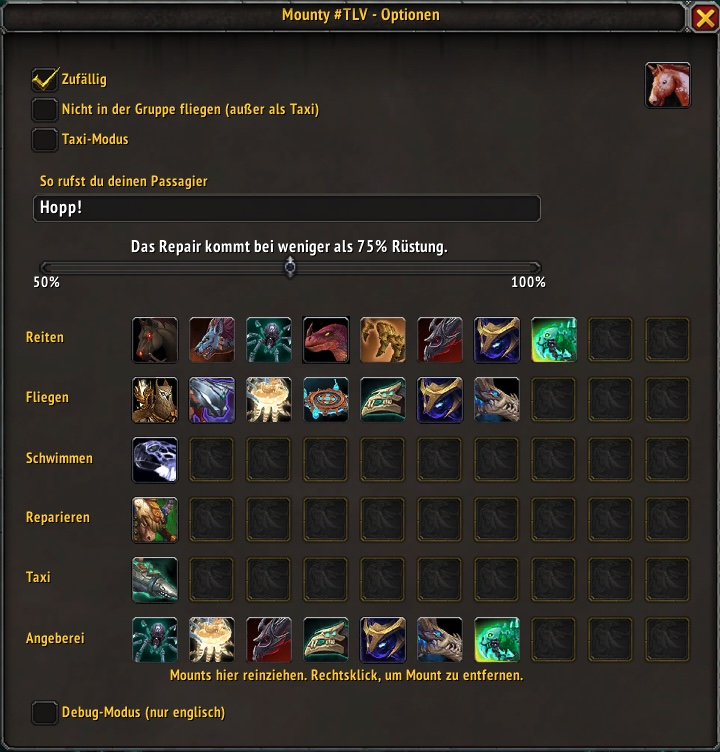
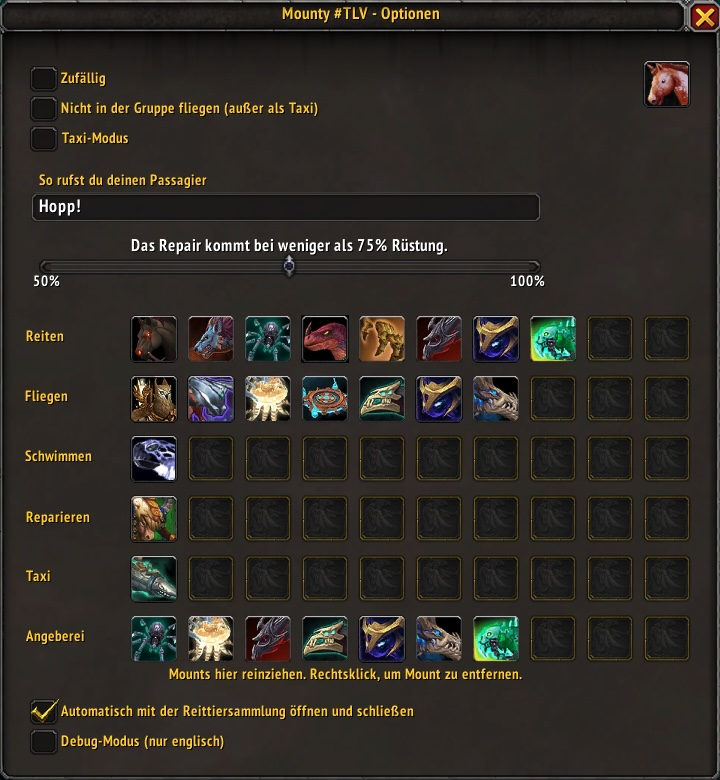
v2.1.0.1 - Auto open and close with mount journal is now an option - New button in mount journal to open and close Mounty - Command line options now in README - Updated README

Changed region(s): [[0.0, 0.0, 1.0, 1.0], [0.9472, 0.6423, 0.9778, 0.6729]]

diff --git a/CHANGELOG.md b/CHANGELOG.md
@@ -2,7 +2,7 @@
 
 Full changelog: https://github.com/last-voice/mounty/blob/main/CHANGELOG.md
 
-v2.1
+v2.1.0.1
 - Auto open and close with mount journal is now an option
 - New button in mount journal to open and close Mounty
 - Command line options now in README
